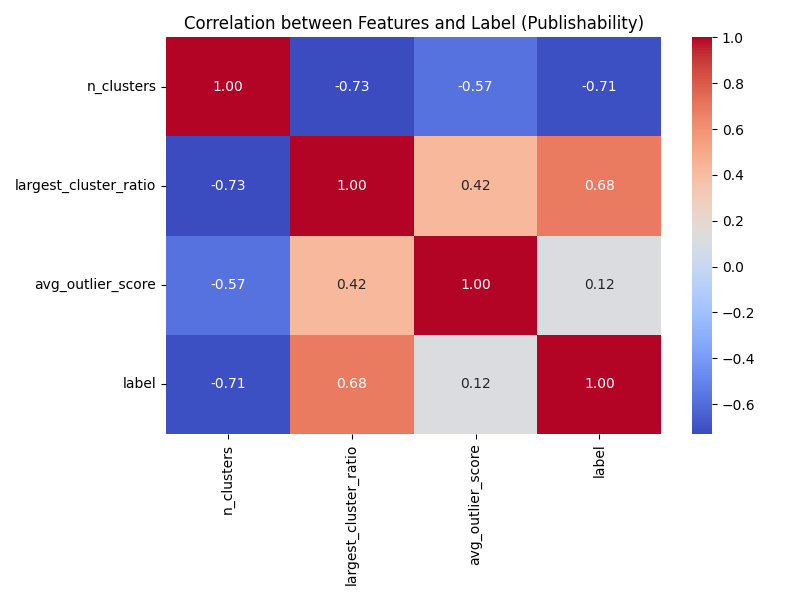
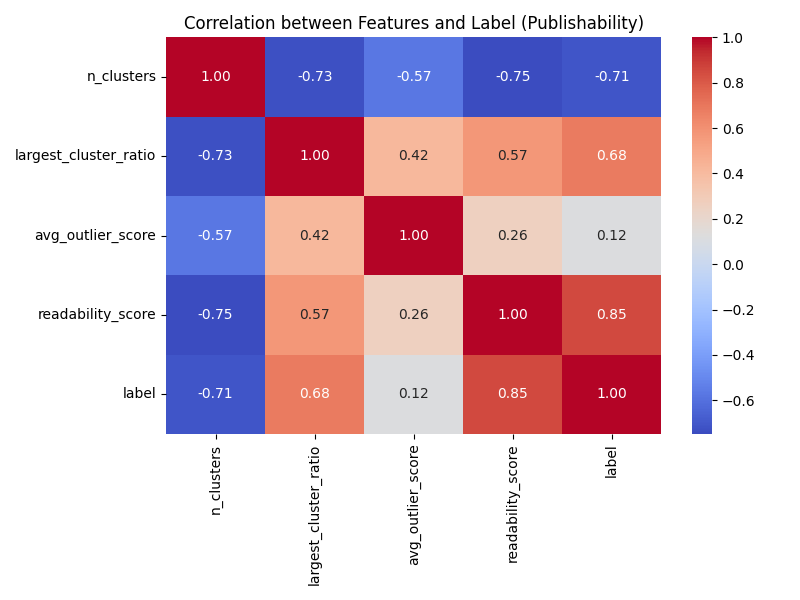
first test

diff --git a/main.py b/main.py
@@ -4,28 +4,64 @@ import numpy as np
 import hdbscan
 from pathway_tools import extract_pdf_text, clean_and_split, embed_sentences
 from sklearn.ensemble import RandomForestClassifier
-from ml_functions import extract_hdbscan_features
+from ml_functions import extract_hdbscan_features, compute_readability_score
 import pandas as pd
 import seaborn as sns
 import matplotlib.pyplot as plt
+from googleapiclient.discovery import build
+from google.oauth2.service_account import Credentials
 
+def get_folder_files(folder_id="1t3bRu8MyW3GC-DvMYvZ5ckDG60_cMHzc"):
+    """Fetch all PDF file IDs from a given Google Drive folder, even if more than 100."""
+
+    credentials = Credentials.from_service_account_file(
+        "credentials.json",
+        scopes=['https://www.googleapis.com/auth/drive.readonly']
+    )
+
+    service = build('drive', 'v3', credentials=credentials)
+
+    all_files = []
+    page_token = None
+
+    while True:
+        response = service.files().list(
+            q=f"'{folder_id}' in parents and mimeType='application/pdf' and trashed=false",
+            fields="nextPageToken, files(id, name)",
+            pageSize=100,
+            pageToken=page_token
+        ).execute()
+
+        files = response.get('files', [])
+        all_files.extend(files)
+
+        page_token = response.get('nextPageToken')
+        if not page_token:
+            break  # No more pages
+
+    print(f"Found {len(all_files)} PDF file(s):")
+
+    return [{"fileId": file['id'], "name": file['name']} for file in all_files]
+
+# Run it
+training_files = get_folder_files()
 
 files = [
-    {"fileId": "1BwVMU26RRu6a8fZ0qmS8leUeXQHjIshD"},
-    {"fileId": "1kXXdZw8hZrBwQ3oANma0DIlKE7Usw1Q9"},
-    {"fileId": "1PKYuPUXD2q39WGgUGvfl8KvUHbZzEV7i"},
-    {"fileId": "160QUt4yDHSV0NSByx66Gr_cQ5iHv8way"},
-    {"fileId": "1akkfw4dLYyOdezjQFG3WsnFllKa5VVaa"},
-    {"fileId": "1YjVysxcpVpDwQnXfQ8V4iH7-WLA7ct1C"},
-    {"fileId": "14kGRS5NlTyWfO1Pz0zQqu7MMjKgimG22"},
-    {"fileId": "1BukEjc3bT8mHTD-TCxjVMzs452qEFAnX"},
-    {"fileId": "1jOLE3bWXWIQZpGL_KnpZlXRVdLdvxMQi"},
-    {"fileId": "1hbzBB8u9aGQqwjPrVEL20nbNa7aNyggX"},
-    {"fileId": "1JvyOi5cFWkSxiEpsVTvdY82DyGMBOOZi"},
-    {"fileId": "1AE5Q619M52Gb3LvKTOJNv6bEjmrkLo0t"},
-    {"fileId": "1qNFPCdxQaoMy1wA0D8Dq0pU2qc1qiyGt"},
-    {"fileId": "1ldiYOjVY517vxrzPHaMdtyQmNzGLZEG6"},
-    {"fileId": "16kCZqG7KrvRqoJ5q5u5GtQJzfQzfDfP4"}
+    {"fileId": "1BwVMU26RRu6a8fZ0qmS8leUeXQHjIshD", "label": 0},
+    {"fileId": "1kXXdZw8hZrBwQ3oANma0DIlKE7Usw1Q9", "label": 1},
+    {"fileId": "1PKYuPUXD2q39WGgUGvfl8KvUHbZzEV7i", "label": 1},
+    {"fileId": "160QUt4yDHSV0NSByx66Gr_cQ5iHv8way", "label": 0},
+    {"fileId": "1akkfw4dLYyOdezjQFG3WsnFllKa5VVaa", "label": 1},
+    {"fileId": "1YjVysxcpVpDwQnXfQ8V4iH7-WLA7ct1C", "label": 1},
+    {"fileId": "14kGRS5NlTyWfO1Pz0zQqu7MMjKgimG22", "label": 1},
+    {"fileId": "1BukEjc3bT8mHTD-TCxjVMzs452qEFAnX", "label": 0},
+    {"fileId": "1jOLE3bWXWIQZpGL_KnpZlXRVdLdvxMQi", "label": 0},
+    {"fileId": "1hbzBB8u9aGQqwjPrVEL20nbNa7aNyggX", "label": 1},
+    {"fileId": "1JvyOi5cFWkSxiEpsVTvdY82DyGMBOOZi", "label": 1},
+    {"fileId": "1AE5Q619M52Gb3LvKTOJNv6bEjmrkLo0t", "label": 1},
+    {"fileId": "1qNFPCdxQaoMy1wA0D8Dq0pU2qc1qiyGt", "label": 0},
+    {"fileId": "1ldiYOjVY517vxrzPHaMdtyQmNzGLZEG6", "label": 1},
+    {"fileId": "16kCZqG7KrvRqoJ5q5u5GtQJzfQzfDfP4", "label": 1},
 ]
 
 labels = [0, 1, 1, 0, 1, 1, 1, 0, 0, 1, 1, 1, 0, 1, 1]
@@ -36,7 +72,7 @@ features = []
 for file in files:
     file_id = file["fileId"]
 
-    try: 
+    try:
         table = pw.io.gdrive.read(
             object_id=file_id,
             service_user_credentials_file="credentials.json",
@@ -47,34 +83,83 @@ for file in files:
             data: bytes
         table = table._with_schema(MySchema)
 
-        text_table = table.select(text=extract_pdf_text(table.data))    
-        sentence_table = text_table.select(sentences=clean_and_split(text_table.text))
-        vector_table = sentence_table.select(
-            embeddings=embed_sentences(sentence_table.sentences)
-        )
+        # Extract text
+        text_table = table.select(text=extract_pdf_text(table.data))
+        full_text = pw.debug.table_to_pandas(text_table)["text"][0]
 
+        # Compute readability
+        readability_score = compute_readability_score(full_text)
+
+        # Sentence embeddings + HDBSCAN
+        sentence_table = text_table.select(sentences=clean_and_split(text_table.text))
+        vector_table = sentence_table.select(embeddings=embed_sentences(sentence_table.sentences))
         df = pw.debug.table_to_pandas(vector_table)
         embeddings = np.vstack([np.array(e).squeeze() for e in df["embeddings"]])
+        hdbscan_features = extract_hdbscan_features(embeddings)
 
-        feature = extract_hdbscan_features(embeddings)
-        features.append(feature)
+        # Combine all features
+        combined = hdbscan_features + [readability_score]
+        features.append(combined)
+        print("training extraction done")
     except Exception as e:
         print(f"Error processing {file_id}: {str(e)}")
-        features.append(None)
+        features.append([0.0, 0.0, 0.0, 0.0])  # fallback in case of error
+
+
+
+testing_features = []
+
+for file in training_files:
+    file_id = file["fileId"]
+
+    try:
+        table = pw.io.gdrive.read(
+            object_id=file_id,
+            service_user_credentials_file="credentials.json",
+            mode="static"
+        )
+
+        class MySchema(pw.Schema):
+            data: bytes
+        table = table._with_schema(MySchema)
+
+        # Extract text
+        text_table = table.select(text=extract_pdf_text(table.data))
+        full_text = pw.debug.table_to_pandas(text_table)["text"][0]
+
+        # Compute readability
+        readability_score = compute_readability_score(full_text)
+
+        # Sentence embeddings + HDBSCAN. 
+        sentence_table = text_table.select(sentences=clean_and_split(text_table.text))
+        vector_table = sentence_table.select(embeddings=embed_sentences(sentence_table.sentences))
+        df = pw.debug.table_to_pandas(vector_table)
+        embeddings = np.vstack([np.array(e).squeeze() for e in df["embeddings"]])
+        hdbscan_features = extract_hdbscan_features(embeddings)
+
+        # Combine all features
+        combined = hdbscan_features + [readability_score]
+        testing_features.append(combined)
+
+    except Exception as e:
+        print(f"Error processing {file_id}: {str(e)}")
+        testing_features.append([0.0, 0.0, 0.0, 0.0])  # fallback in case of error
 
 pw.run()
+
+print("Extracted features:", features)
 
 X = np.array(features)
 Y = np.array(labels)
 
-model = RandomForestClassifier(n_estimators=200, random_state=42, class_weight='balanced')
+model = RandomForestClassifier(n_estimators=200, random_state=42)
 model.fit(X, Y)
 
-test = np.array([8, 0.1, 0.05]).reshape(1, -1)  # Example test input
+test = np.array(testing_features)
 prediction = model.predict(test)
 print(f"Prediction for test input {test}: {prediction}")
 
-feature_names = ["n_clusters", "largest_cluster_ratio", "avg_outlier_score"]
+feature_names = ["n_clusters", "largest_cluster_ratio", "avg_outlier_score", "readability_score"]
 
 # Create DataFrame for features and labels
 df = pd.DataFrame(X, columns=feature_names)

diff --git a/ml_functions.py b/ml_functions.py
@@ -1,5 +1,6 @@
 import hdbscan
 import numpy as np
+import textstat
 
 def extract_hdbscan_features(embeddings: list[list[float]]) -> dict:
     # Fit HDBSCAN
@@ -25,3 +26,10 @@ def extract_hdbscan_features(embeddings: list[list[float]]) -> dict:
         float(largest_cluster_ratio),
         float(avg_outlier_score)
     ]
+
+def compute_readability_score(text: str) -> float:
+    try:
+        return textstat.flesch_reading_ease(text)
+    except Exception as e:
+        print(f"Error computing readability: {str(e)}")
+        return 0.0  # fallback value if something goes wrong
